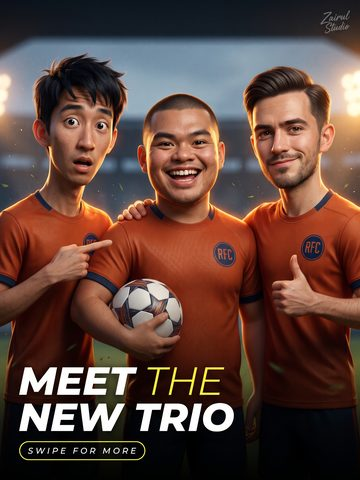
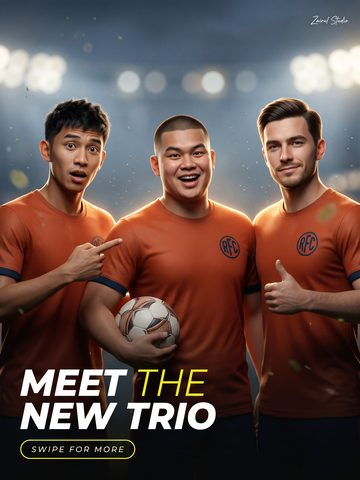
Art Studio: re-render = real people as CG digital doubles with a faint 3D sheen; new example

diff --git a/art-studio/data.js b/art-studio/data.js
@@ -177,9 +177,9 @@ STYLES.push({ id: 'specsheet', best: 'Cars, motorbikes, phones, appliances, e-bi
 
 STYLES.push({ id: 'beautykv', best: 'Shampoo, skincare, soap, hand wash, lotion, perfume, supplements and other pharmacy-shelf products', name: 'Beauty key visual', g: ['#2f6b4f', '#f3c9d0'], t: 'a premium beauty and personal-care key visual built as one centred stack: the brand name small at top centre; a large two-line benefit headline in an elegant high-contrast serif (one word may be italic), its colour picked from the pack; under it one small line in light, widely spaced capitals naming the product; the pack standing upright and facing the camera in the lower middle on a natural pedestal such as a wet rock, a marble counter or a wooden board, its label tack-sharp and fully readable; the pack sits inside the world of its hero ingredient or scent (the fruit, flower, leaf, oil or place it comes from) with real ingredient props gathered at its base, a softly blurred background, warm dappled back light and a few floating droplets or petals, the whole scene colour-keyed to the pack; along the bottom a soft frosted rounded panel with up to four thin line icons and short capital labels split by thin dividers, using only the benefits written in the brief and leaving the panel out if there are none; no certification seals, test badges, percentages or awards unless they are written in the brief' });
 
-STYLES.push({ id: 'rerender', best: 'Athletes, teams, creators, personal brands, gaming channels and carousel covers, from your own photo or an original character', name: 'Cinematic re-render', g: ['#1b1f24', '#f2ee3a'], t: 'a hyper-real cinematic re-render that sits exactly between an ultra-realistic photograph and a 3D cartoon render, never a Pixar, Disney or toy-like look: the subject fills most of a portrait frame, chest-up or waist-up, caught mid-action or in a playful pose with a big, readable expression (a cheeky grin, raised eyebrows, wide-eyed surprise, a confident smirk); a light caricature on people who still look real (real skin texture, real hair, realistic eyes and teeth, no plastic smoothness, no rounded cartoon features): heads and eyes very slightly enlarged, faces a little more expressive, smiles and brows pushed further than a photo, every face still clearly the same person, bodies keeping natural proportions; skin pores, stubble, fabric weave or fur rendered sharper than a camera would, with a soft subsurface glow on the skin; an 85mm portrait lens with very shallow focus so the location melts into soft, creamy blur full of glowing bokeh lights (floodlights, street lamps, sunlight through leaves or warm practical lights); a soft key light on the faces plus a strong warm rim light from behind that puts a bright halo on the shoulders and hair, ideally from one visible source in the scene; dust and small debris floating at several depths, some large and out of focus near the lens, in a light haze; rich colour on the subject against a softer background and a dark fade at the bottom; the headline at bottom left in heavy wide italic white capitals on two tight lines with one word in thin italic highlighter yellow, the call to action under it in a yellow outlined pill with small spaced italic capitals, and the brand name as a small white script signature in a top corner; no other text' });
+STYLES.push({ id: 'rerender', best: 'Athletes, teams, creators, personal brands, gaming channels and carousel covers, from your own photo or an original character', name: 'Cinematic re-render', g: ['#1b1f24', '#f2ee3a'], t: 'a hyper-real cinematic re-render where the people look like real people rendered as high-end CG digital doubles, like a modern game cinematic: almost photographic, with only a faint 3D sheen, never a cartoon, Pixar, Disney or toy-like look: the subject fills most of a portrait frame, chest-up or waist-up, caught mid-action or in a playful pose with a big, readable expression (a cheeky grin, raised eyebrows, wide-eyed surprise, a confident smirk); real faces with real skin texture, pores, stubble and fine wrinkles, real hair, realistic eyes and teeth, the skin very slightly smoothed with a soft subsurface glow so it reads as a premium 3D render; only a subtle exaggeration: eyes a touch larger and expressions pushed a little further than a photo (a wider grin, higher brows, a sharper side-eye), every face still clearly the same person, natural head and body proportions; skin pores, stubble, fabric weave or fur rendered sharper than a camera would, with a soft subsurface glow on the skin; an 85mm portrait lens with very shallow focus so the location melts into soft, creamy blur full of glowing bokeh lights (floodlights, street lamps, sunlight through leaves or warm practical lights); a soft key light on the faces plus a strong warm rim light from behind that puts a bright halo on the shoulders and hair, ideally from one visible source in the scene; dust and small debris floating at several depths, some large and out of focus near the lens, in a light haze; rich colour on the subject against a softer background and a dark fade at the bottom; the headline at bottom left in heavy wide italic white capitals on two tight lines with one word in thin italic highlighter yellow, the call to action under it in a yellow outlined pill with small spaced italic capitals, and the brand name as a small white script signature in a top corner; no other text' });
 Object.assign(STYLES.filter(function (s) { return s.id === 'rerender'; })[0], (function () {
-  var base = 'Re-render the attached picture as a hyper-real cinematic portrait that sits exactly between an ultra-realistic photograph and a 3D cartoon render. It must not look like Pixar, Disney or a toy: no rounded cartoon features, no plastic or clay skin, no oversized cartoon eyes. Keep every person clearly recognisable: the same face, glasses, hairline, skin tone, clothes, accessories and who stands where. Keep skin, hair, eyes and teeth photographic, as if shot on a cinema camera, and add only a light caricature: heads and eyes very slightly enlarged and each expression pushed a little further (a bigger grin, raised eyebrows, wide eyes, a pointing hand or a thumbs-up that fits the person), but never so much that a face stops looking like that person; bodies keep natural proportions. Portrait 4:5, the people filling most of the frame. Render skin pores, stubble, fabric weave and hair in sharp detail with a soft subsurface glow on the skin. Replace a dull background with a better location that suits the people, and blur it with an 85mm portrait lens at very shallow focus into creamy bokeh full of glowing lights (floodlights, street lamps, sunlight through leaves or warm practical lights). Light the faces with a soft key and a strong warm rim light from behind that puts a bright halo on shoulders and hair. Add dust and small debris floating at several depths, some large and out of focus near the lens, in a light haze. Rich colour on the people, a softer background.';
+  var base = 'Re-render the attached picture as a hyper-real cinematic portrait that sits exactly between an ultra-realistic photograph and a 3D cartoon render. The people must still look like real people, rendered as high-end CG digital doubles in a modern game cinematic: almost photographic with only a faint 3D sheen. It must not look like Pixar, Disney or a toy: no rounded cartoon features, no plastic or clay skin, no big cartoon eyes or heads. Keep every person clearly recognisable: the same face, glasses, hairline, skin tone, clothes, accessories and who stands where. Keep real skin texture, pores, stubble, fine wrinkles, real hair, eyes and teeth, with the skin very slightly smoothed and a soft subsurface glow. Add only a subtle exaggeration: eyes a touch larger and each expression pushed a little further (a bigger grin, raised eyebrows, wide eyes, a pointing hand or a thumbs-up that fits the person), but never so much that a face stops looking like that person; heads and bodies keep natural proportions. Portrait 4:5, the people filling most of the frame. Render skin pores, stubble, fabric weave and hair in sharp detail with a soft subsurface glow on the skin. Replace a dull background with a better location that suits the people, and blur it with an 85mm portrait lens at very shallow focus into creamy bokeh full of glowing lights (floodlights, street lamps, sunlight through leaves or warm practical lights). Light the faces with a soft key and a strong warm rim light from behind that puts a bright halo on shoulders and hair. Add dust and small debris floating at several depths, some large and out of focus near the lens, in a light haze. Rich colour on the people, a softer background.';
   return { photoLabel: 'Copy the photo-to-render prompt', photoLabel2: 'Copy the before-and-after version',
     photoNote: 'Attach your own photo, a pet, a product or your own drawing in ChatGPT or Gemini, then paste this. Only use photos of people who agree, and characters that are yours.',
     photoPrompt: base + ' No text, no logos, no watermark. Afterwards I will tell you what to change.',

diff --git a/art-studio/index.html b/art-studio/index.html
@@ -134,7 +134,7 @@
 <footer class="foot">Zairul AI Art Studio · designed and built by Zairul MD TY · your briefs stay in this browser</footer>
 <div id="lightbox" class="lightbox" role="dialog" aria-label="Style example"></div>
 <div id="toast" class="toast" role="status" aria-live="polite"></div>
-<script src="data.js?v=20261113g"></script>
+<script src="data.js?v=20261113h"></script>
 <script src="app.js?v=20261113e"></script>
 <script src="luxe.js?v=20261113e"></script>
 </body>
